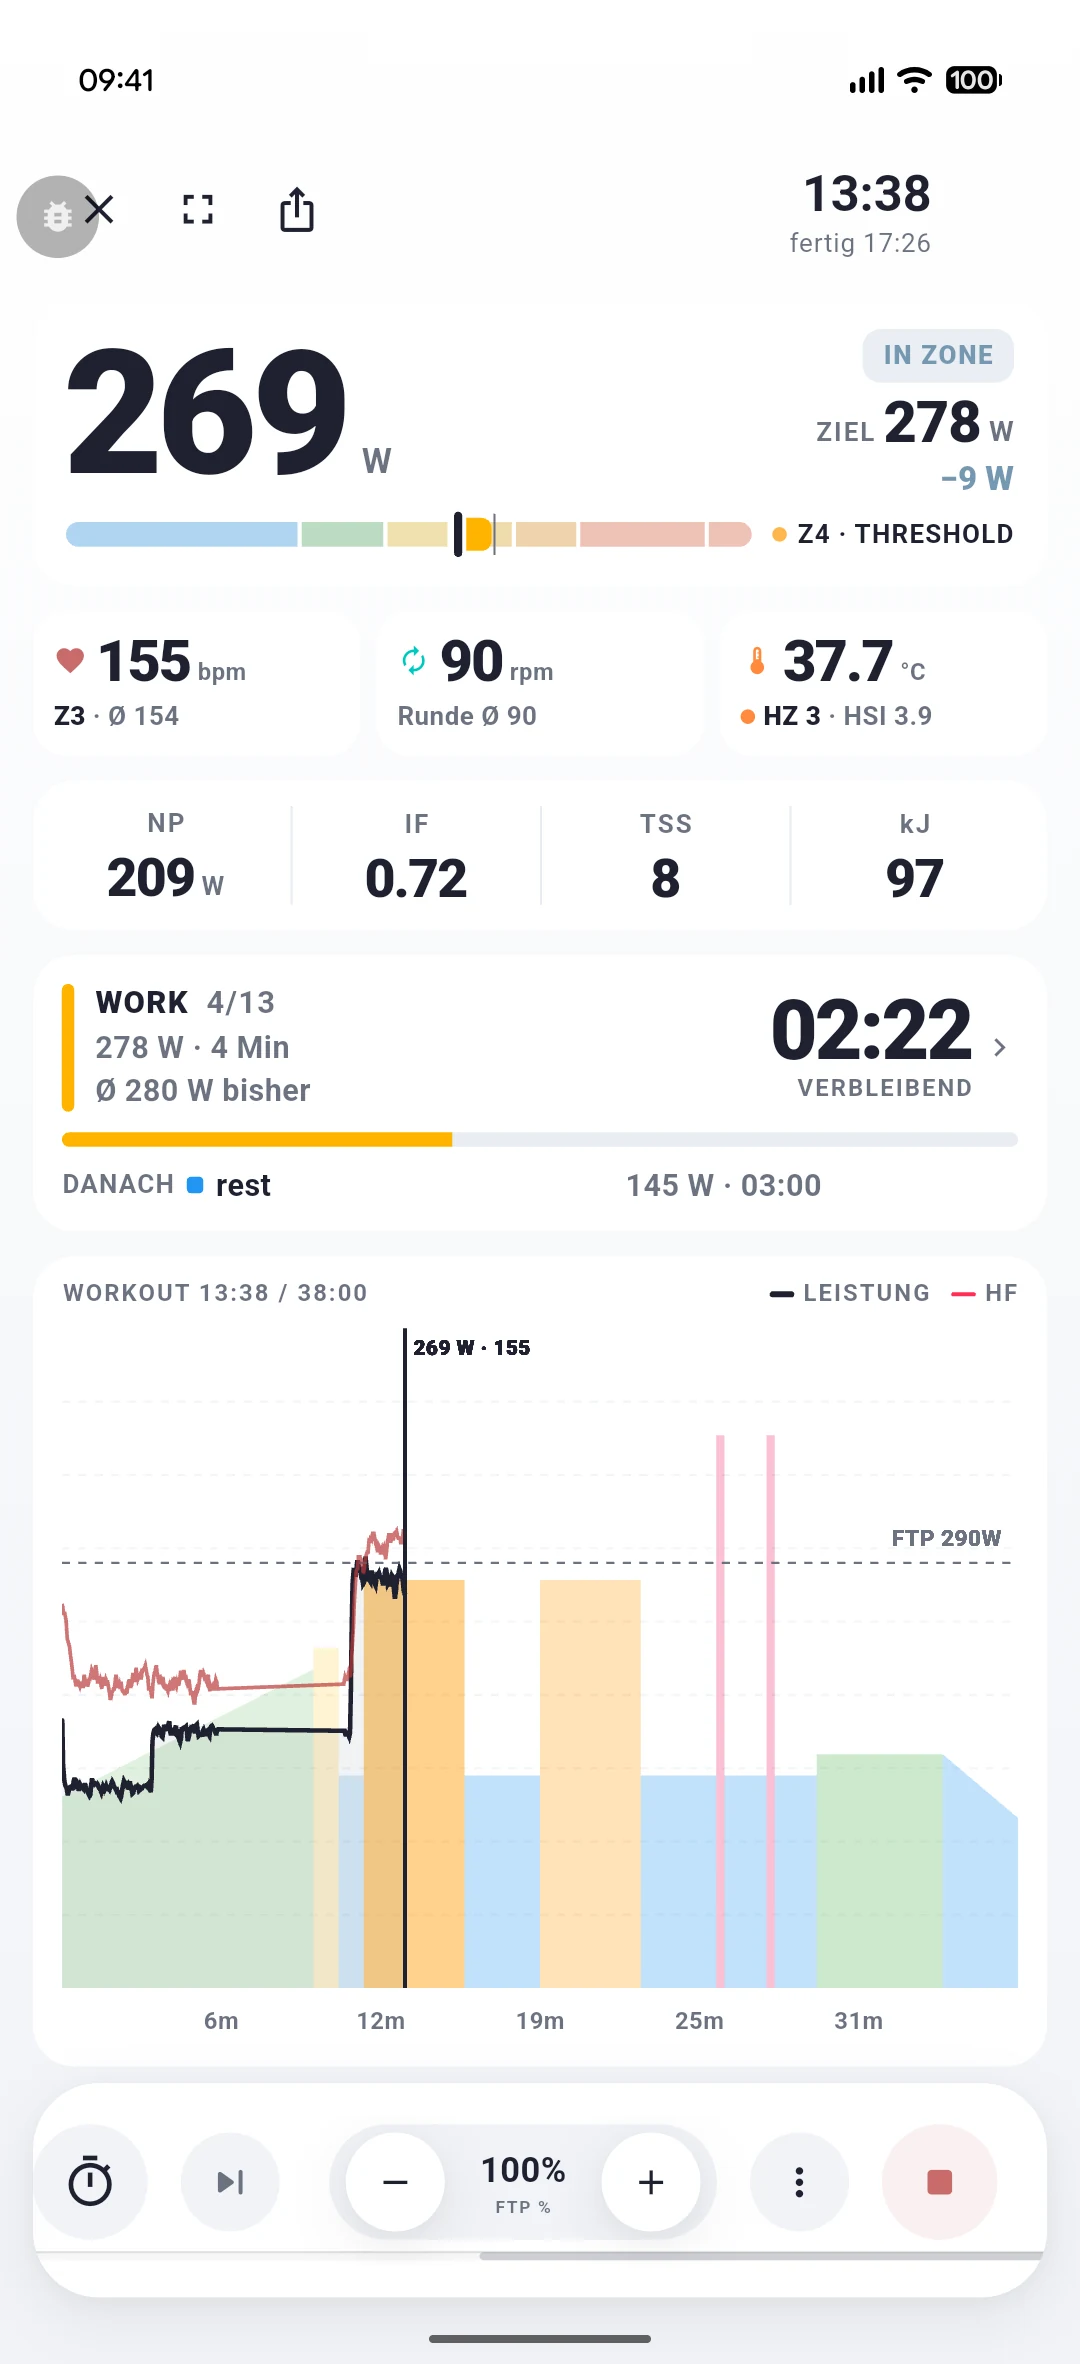
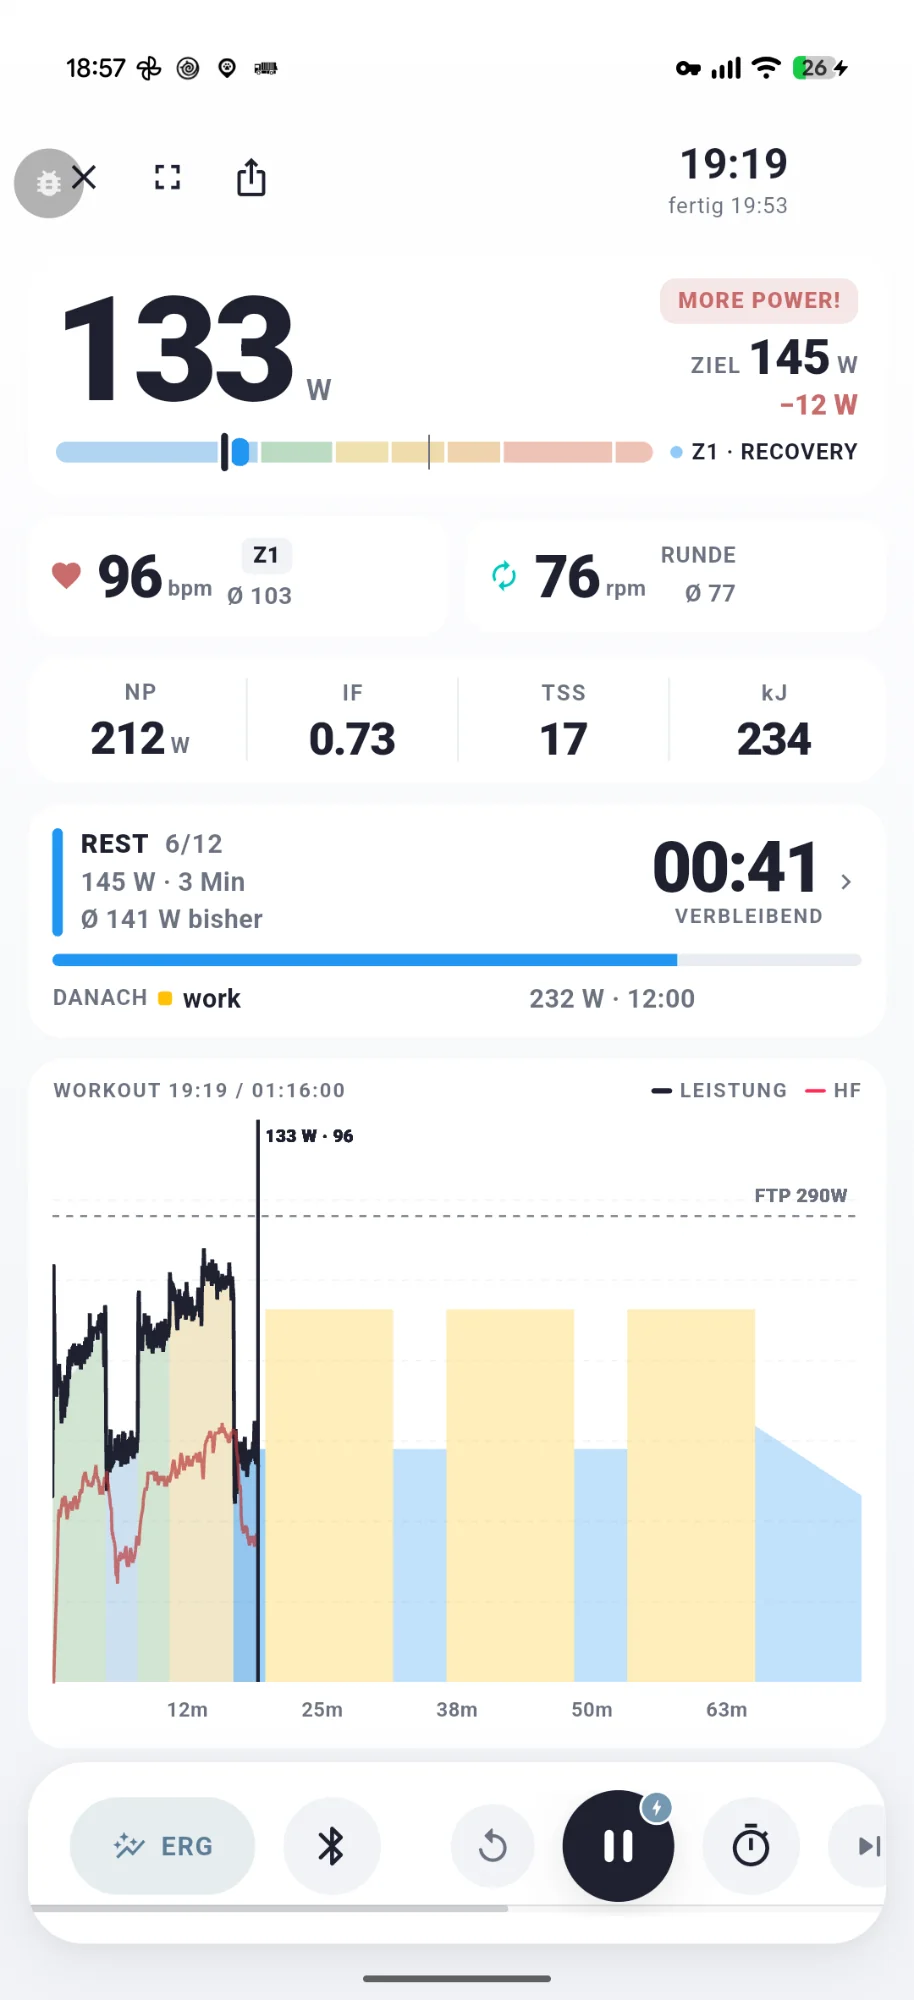
Replace ride screen screenshot in both languages
New screenshot without the flat power line through the virtual trainer
chart. Alt text and caption no longer mention CORE heat zones, which the
new screen does not show.

diff --git a/src/i18n/translations.ts b/src/i18n/translations.ts
@@ -45,8 +45,8 @@ export const translations = {
     appScreens: {
       ride: {
         label: "Ride screen",
-        alt: "ENDURE ride screen with ERG target power, heart rate, cadence and CORE heat zone",
-        caption: "Ride Screen: precise ERG control with live CORE heat zones"
+        alt: "ENDURE ride screen with ERG target power, heart rate, cadence, interval progress and the workout chart",
+        caption: "Ride Screen: precise ERG control with the whole workout in view"
       },
       vo2max: {
         label: "VO2max trend",
@@ -622,8 +622,8 @@ export const translations = {
     appScreens: {
       ride: {
         label: "Ride Screen",
-        alt: "ENDURE Ride Screen mit ERG-Zielleistung, Herzfrequenz, Trittfrequenz und CORE Heat Zone",
-        caption: "Ride Screen: präzise ERG-Steuerung mit Live CORE Heat Zones"
+        alt: "ENDURE Ride Screen mit ERG-Zielleistung, Herzfrequenz, Trittfrequenz, Intervallfortschritt und Workout-Diagramm",
+        caption: "Ride Screen: präzise ERG-Steuerung mit dem ganzen Workout im Blick"
       },
       vo2max: {
         label: "VO2max-Trend",
